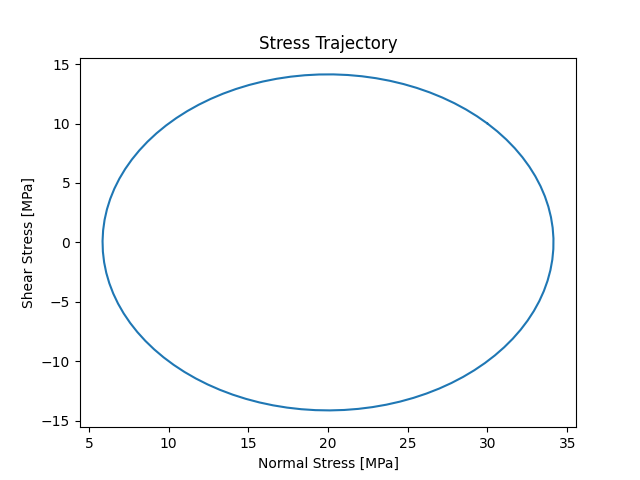
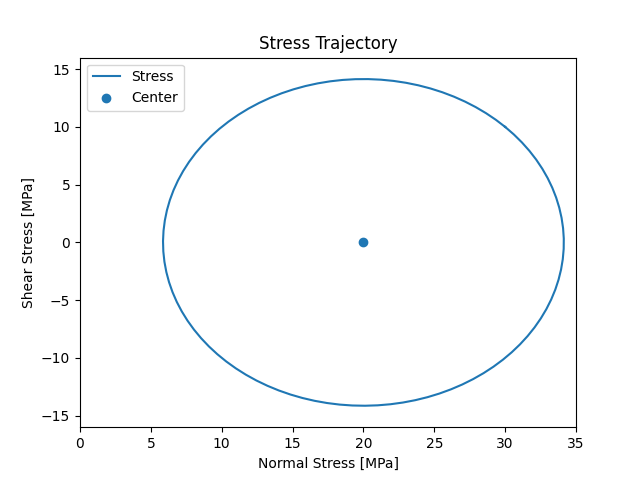
Should be final commit

diff --git a/hw2/aa530-hw2.py b/hw2/aa530-hw2.py
@@ -12,6 +12,7 @@ import matplotlib.pyplot as plt
 alpha = np.linspace(1.0,179.0,100) # degrees
 sigma_1 = 30.0 # [MPa]
 sigma_2 = 10.0 # [MPa]
+sigma_avg = 0.5*(sigma_1 + sigma_2) # [MPa]
 tau_12 = -10.0 # [MPa]
 tau_21 = tau_12 # [MPa]
 
@@ -30,10 +31,23 @@ Tn = (1.0/2.0)*(sigma_1 + sigma_2) + 0.5*(sigma_1 - sigma_2)*np.cos(2.0*alpharad
 Ttau = 0.5*(sigma_1 - sigma_2)*np.sin(2.0*alpharad) - 0.5*(tau_12 + tau_21)*np.cos(2.0*alpharad)
 
 fig_stress1pt6 = plt.figure()
-plt.plot(Tn,Ttau)
+plt.plot(Tn,Ttau,label='Stress')
+plt.scatter(sigma_avg,0,label='Center')
+plt.xlim([0,35])
+plt.ylim([-16,16])
 plt.title('Stress Trajectory')
 plt.xlabel('Normal Stress [MPa]')
 plt.ylabel('Shear Stress [MPa]')
+plt.legend()
+
+# 1.7
+T_nprin1 = sigma_avg + np.sqrt(0.25*(sigma_1 - sigma_2)**2 + tau_12**2)
+T_nprin2 = sigma_avg - np.sqrt(0.25*(sigma_1 - sigma_2)**2 + tau_12**2)
+T_taumaxpos = np.sqrt(0.25*(sigma_1 - sigma_2)**2 + tau_12**2)
+T_taumaxneg = -np.sqrt(0.25*(sigma_1 - sigma_2)**2 + tau_12**2)
+
+print("The principal stresses for 1.6 are %f and %f [MPa]" %(T_nprin1,T_nprin2))
+print("The maximum shear stress for Problem 1 is %f [MPa]" %T_taumaxpos) 
 
 # 2.2 - principal stresses and directions of stress tensor
 sigmatensor_2pt2 = np.array([[6.0, -2.0, 0.0],[-2.0, 3.0, 4.0],[0.0,4.0,3.0]])
@@ -42,4 +56,12 @@ evals_2pt2,evecs_2pt2 = np.linalg.eig(sigmatensor_2pt2)
 print("The eigenvalues (principal stresses) are", evals_2pt2)
 print("The eigenvectors (principal directions) are\n", evecs_2pt2)
 
+# 2.3 - maximum shear stress
+T_taumax2pt3 = np.sqrt(0.25*(evals_2pt2[0] - evals_2pt2[1])**2 + 4) # 4 - tau_{xy}^{2}
+print("The maximum shear stress is %f [Pa]" %T_taumax2pt3)
+
+# 2.4 - Von Mises stress
+sigma_VM = np.sqrt(0.5*((evals_2pt2[0] - evals_2pt2[1])**2 + (evals_2pt2[0] - evals_2pt2[2])**2 + (evals_2pt2[1] - evals_2pt2[2])**2))
+print("The Von Mises stress is %f [Pa]" %sigma_VM)
+    
 plt.show()
